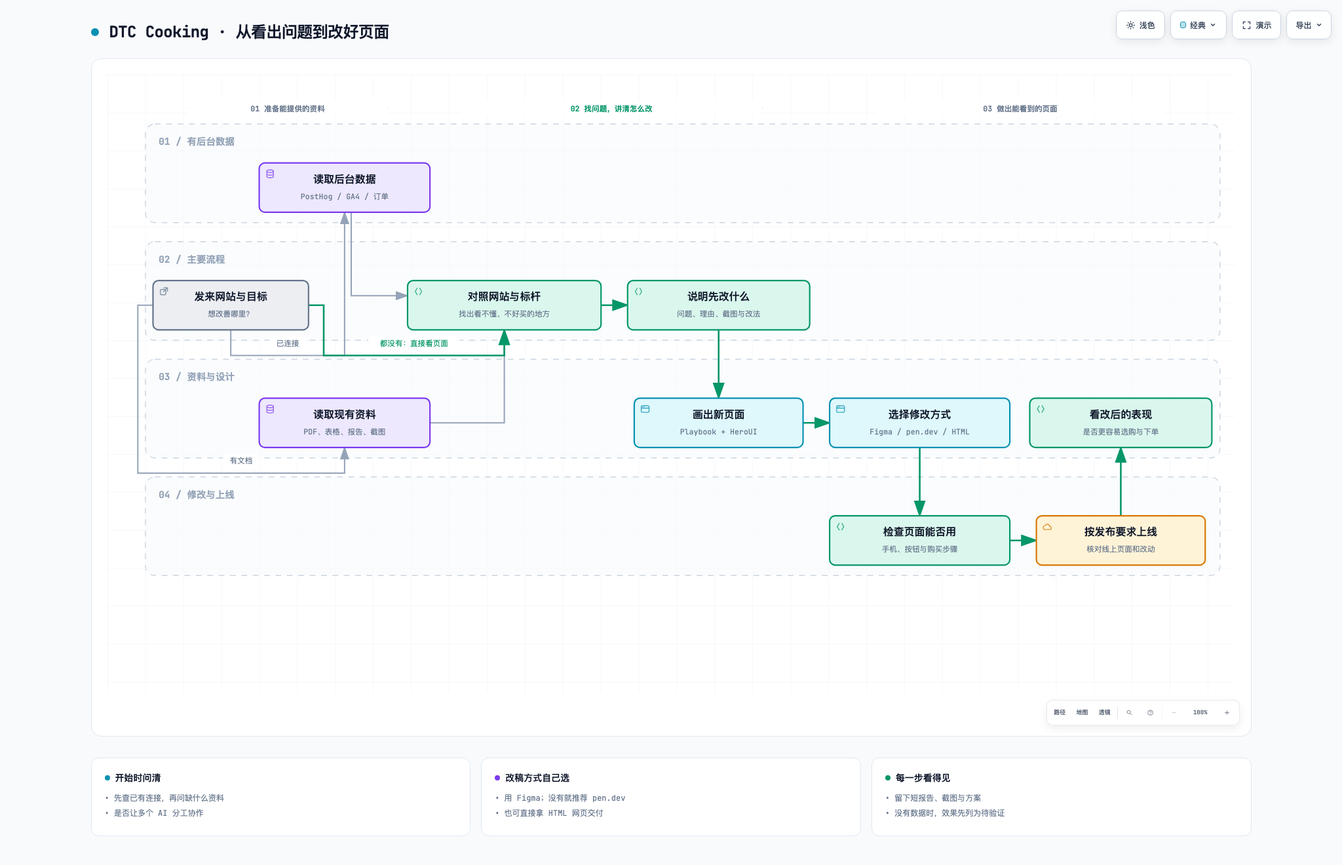
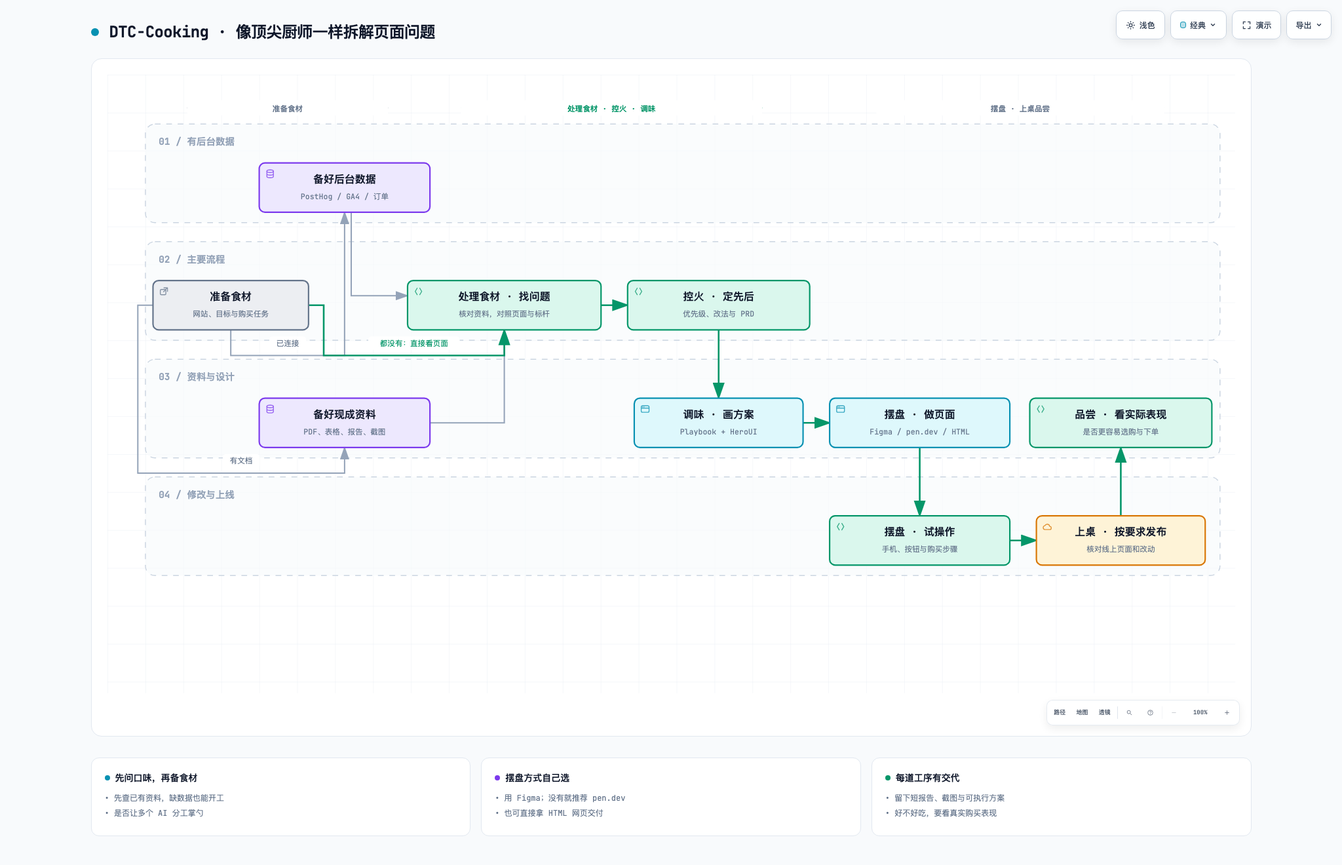
Rename skill to DTC-Cooking and explain the chef workflow

diff --git a/docs/workflow.html b/docs/workflow.html
@@ -4,7 +4,7 @@
   <meta charset="UTF-8">
   <meta name="viewport" content="width=device-width, initial-scale=1.0">
   <meta name="generator" content="archify 2.17.0-dev.1">
-  <title>DTC Cooking · 从看出问题到改好页面</title>
+  <title>DTC-Cooking · 像顶尖厨师一样拆解页面问题</title>
   <script>
     // Resolve the theme before first paint so light-preference users don't
     // see a dark flash. The toolbar script below re-applies with UI state.
@@ -4955,7 +4955,7 @@
            data-preset-badge-blueprint="蓝图 / 修订 01"
            data-preset-badge-editorial="编辑风格 / 现场笔记">
         <div class="pulse-dot"></div>
-        <h1>DTC Cooking · 从看出问题到改好页面</h1>
+        <h1>DTC-Cooking · 像顶尖厨师一样拆解页面问题</h1>
       </div>
     </div>
 
@@ -5005,7 +5005,7 @@
     <div class="diagram-container" data-detail-level="read"
          data-preset-badge-editorial-plate="ARCHIFY / 图版 04">
       <svg viewBox="0 0 1189 652" role="img" lang="zh-CN" aria-labelledby="archify-diagram-title archify-diagram-description" data-preset="classic" data-quality-profile="showcase">
-        <title id="archify-diagram-title">DTC Cooking · 从看出问题到改好页面</title>
+        <title id="archify-diagram-title">DTC-Cooking · 像顶尖厨师一样拆解页面问题</title>
         <desc id="archify-diagram-description">由 Archify 生成的工作流图。</desc>
         <!-- Definitions -->
         <defs>
@@ -5045,13 +5045,13 @@
         <!-- Phase headers -->
         <line x1="84" y1="35" x2="296" y2="35" class="a-default" stroke-width="1.1"/>
         <rect x="84" y="27" width="212" height="16" rx="4" class="c-mask"/>
-        <text x="190" y="39" class="t-muted" font-size="8" font-weight="600" text-anchor="middle">01 准备能提供的资料</text>
+        <text x="190" y="39" class="t-muted" font-size="8" font-weight="600" text-anchor="middle">准备食材</text>
         <line x1="372.4" y1="35" x2="690.4" y2="35" class="a-emphasis" stroke-width="1.1"/>
         <rect x="372.4" y="27" width="318" height="16" rx="4" class="c-mask"/>
-        <text x="531.4" y="39" class="t-backend" font-size="8" font-weight="600" text-anchor="middle">02 找问题，讲清怎么改</text>
+        <text x="531.4" y="39" class="t-backend" font-size="8" font-weight="600" text-anchor="middle">处理食材 · 控火 · 调味</text>
         <line x1="810.4000000000001" y1="35" x2="1114.4" y2="35" class="a-default" stroke-width="1.1"/>
         <rect x="810.4000000000001" y="27" width="304.0000000000001" height="16" rx="4" class="c-mask"/>
-        <text x="962.4000000000001" y="39" class="t-muted" font-size="8" font-weight="600" text-anchor="middle">03 做出能看到的页面</text>
+        <text x="962.4000000000001" y="39" class="t-muted" font-size="8" font-weight="600" text-anchor="middle">摆盘 · 上桌品尝</text>
 
         <!-- Workflow groups -->
 
@@ -5070,66 +5070,66 @@
         <path data-edge-from="verify" data-edge-to="publish" data-edge-key="10" data-edge-id="verify-to-publish" data-composition-points="951.4,491;979.4000000000001,491" d="M 951.4 491 L 979.4000000000001 491" class="a-emphasis" stroke-width="1.8" marker-end="url(#arrowhead-emphasis)"/>
 
         <!-- Nodes -->
-        <g id="node-analytics" data-node-id="analytics" data-node-label="读取后台数据" tabindex="0" role="button" aria-label="聚焦读取后台数据，PostHog / GA4 / 订单, 有后台数据 › 01 准备能提供的资料" aria-pressed="false" data-node-kind="database" data-node-sublabel="PostHog / GA4 / 订单" data-node-context="有后台数据 › 01 准备能提供的资料">
-          <title>读取后台数据 · PostHog / GA4 / 订单 · 有后台数据 › 01 准备能提供的资料</title>
+        <g id="node-analytics" data-node-id="analytics" data-node-label="备好后台数据" tabindex="0" role="button" aria-label="聚焦备好后台数据，PostHog / GA4 / 订单, 有后台数据 › 准备食材" aria-pressed="false" data-node-kind="database" data-node-sublabel="PostHog / GA4 / 订单" data-node-context="有后台数据 › 准备食材">
+          <title>备好后台数据 · PostHog / GA4 / 订单 · 有后台数据 › 准备食材</title>
           <rect x="160" y="93" width="180" height="52" rx="6" class="c-mask"/>
           <rect x="160" y="93" width="180" height="52" rx="6" class="c-database" stroke-width="1.5"/>
           <g aria-hidden="true" data-semantic-sigil="database" class="semantic-sigil s-database" transform="translate(166 99) scale(0.6875)">
             <ellipse cx="8" cy="4" rx="5" ry="2"/>
             <path d="M3 4v8c0 1.1 2.2 2 5 2s5-.9 5-2V4M3 8c0 1.1 2.2 2 5 2s5-.9 5-2"/>
           </g>
-          <text data-node-label="" data-detail-anchor="" x="250" y="114" class="t-primary" font-size="11" font-weight="600" text-anchor="middle">读取后台数据</text>
+          <text data-node-label="" data-detail-anchor="" x="250" y="114" class="t-primary" font-size="11" font-weight="600" text-anchor="middle">备好后台数据</text>
           <text data-detail="context" x="250" y="131" class="t-muted" font-size="8" text-anchor="middle">PostHog / GA4 / 订单</text>
         </g>
 
-        <g id="node-brief" data-node-id="brief" data-node-label="发来网站与目标" tabindex="0" role="button" aria-label="聚焦发来网站与目标，想改善哪里？, 主要流程 › 01 准备能提供的资料" aria-pressed="false" data-node-kind="external" data-node-sublabel="想改善哪里？" data-node-context="主要流程 › 01 准备能提供的资料">
-          <title>发来网站与目标 · 想改善哪里？ · 主要流程 › 01 准备能提供的资料</title>
+        <g id="node-brief" data-node-id="brief" data-node-label="准备食材" tabindex="0" role="button" aria-label="聚焦准备食材，网站、目标与购买任务, 主要流程 › 准备食材" aria-pressed="false" data-node-kind="external" data-node-sublabel="网站、目标与购买任务" data-node-context="主要流程 › 准备食材">
+          <title>准备食材 · 网站、目标与购买任务 · 主要流程 › 准备食材</title>
           <rect x="48" y="217" width="164" height="52" rx="6" class="c-mask"/>
           <rect x="48" y="217" width="164" height="52" rx="6" class="c-external" stroke-width="1.5"/>
           <g aria-hidden="true" data-semantic-sigil="external" class="semantic-sigil s-external" transform="translate(54 223) scale(0.6875)">
             <rect x="2.5" y="5" width="8.5" height="8" rx="1.5"/>
             <path d="M8 2.5h5.5V8M13.5 2.5 7.5 8.5"/>
           </g>
-          <text data-node-label="" data-detail-anchor="" x="130" y="238" class="t-primary" font-size="11" font-weight="600" text-anchor="middle">发来网站与目标</text>
-          <text data-detail="context" x="130" y="255" class="t-muted" font-size="8" text-anchor="middle">想改善哪里？</text>
+          <text data-node-label="" data-detail-anchor="" x="130" y="238" class="t-primary" font-size="11" font-weight="600" text-anchor="middle">准备食材</text>
+          <text data-detail="context" x="130" y="255" class="t-muted" font-size="8" text-anchor="middle">网站、目标与购买任务</text>
         </g>
 
-        <g id="node-compare" data-node-id="compare" data-node-label="对照网站与标杆" tabindex="0" role="button" aria-label="聚焦对照网站与标杆，找出看不懂、不好买的地方, 主要流程 › 02 找问题，讲清怎么改" aria-pressed="false" data-node-kind="backend" data-node-sublabel="找出看不懂、不好买的地方" data-node-context="主要流程 › 02 找问题，讲清怎么改">
-          <title>对照网站与标杆 · 找出看不懂、不好买的地方 · 主要流程 › 02 找问题，讲清怎么改</title>
+        <g id="node-compare" data-node-id="compare" data-node-label="处理食材 · 找问题" tabindex="0" role="button" aria-label="聚焦处理食材 · 找问题，核对资料，对照页面与标杆, 主要流程 › 处理食材 · 控火 · 调味" aria-pressed="false" data-node-kind="backend" data-node-sublabel="核对资料，对照页面与标杆" data-node-context="主要流程 › 处理食材 · 控火 · 调味">
+          <title>处理食材 · 找问题 · 核对资料，对照页面与标杆 · 主要流程 › 处理食材 · 控火 · 调味</title>
           <rect x="316.4" y="217" width="204" height="52" rx="6" class="c-mask"/>
           <rect x="316.4" y="217" width="204" height="52" rx="6" class="c-backend" stroke-width="1.5"/>
           <g aria-hidden="true" data-semantic-sigil="backend" class="semantic-sigil s-backend" transform="translate(322.4 223) scale(0.6875)">
             <path d="M6 3 3 8l3 5M10 3l3 5-3 5"/>
           </g>
-          <text data-node-label="" data-detail-anchor="" x="418.4" y="238" class="t-primary" font-size="11" font-weight="600" text-anchor="middle">对照网站与标杆</text>
-          <text data-detail="context" x="418.4" y="255" class="t-muted" font-size="8" text-anchor="middle">找出看不懂、不好买的地方</text>
+          <text data-node-label="" data-detail-anchor="" x="418.4" y="238" class="t-primary" font-size="11" font-weight="600" text-anchor="middle">处理食材 · 找问题</text>
+          <text data-detail="context" x="418.4" y="255" class="t-muted" font-size="8" text-anchor="middle">核对资料，对照页面与标杆</text>
         </g>
 
-        <g id="node-proposal" data-node-id="proposal" data-node-label="说明先改什么" tabindex="0" role="button" aria-label="聚焦说明先改什么，问题、理由、截图与改法, 主要流程 › 02 找问题，讲清怎么改" aria-pressed="false" data-node-kind="backend" data-node-sublabel="问题、理由、截图与改法" data-node-context="主要流程 › 02 找问题，讲清怎么改">
-          <title>说明先改什么 · 问题、理由、截图与改法 · 主要流程 › 02 找问题，讲清怎么改</title>
+        <g id="node-proposal" data-node-id="proposal" data-node-label="控火 · 定先后" tabindex="0" role="button" aria-label="聚焦控火 · 定先后，优先级、改法与 PRD, 主要流程 › 处理食材 · 控火 · 调味" aria-pressed="false" data-node-kind="backend" data-node-sublabel="优先级、改法与 PRD" data-node-context="主要流程 › 处理食材 · 控火 · 调味">
+          <title>控火 · 定先后 · 优先级、改法与 PRD · 主要流程 › 处理食材 · 控火 · 调味</title>
           <rect x="548.4" y="217" width="192" height="52" rx="6" class="c-mask"/>
           <rect x="548.4" y="217" width="192" height="52" rx="6" class="c-backend" stroke-width="1.5"/>
           <g aria-hidden="true" data-semantic-sigil="backend" class="semantic-sigil s-backend" transform="translate(554.4 223) scale(0.6875)">
             <path d="M6 3 3 8l3 5M10 3l3 5-3 5"/>
           </g>
-          <text data-node-label="" data-detail-anchor="" x="644.4" y="238" class="t-primary" font-size="11" font-weight="600" text-anchor="middle">说明先改什么</text>
-          <text data-detail="context" x="644.4" y="255" class="t-muted" font-size="8" text-anchor="middle">问题、理由、截图与改法</text>
+          <text data-node-label="" data-detail-anchor="" x="644.4" y="238" class="t-primary" font-size="11" font-weight="600" text-anchor="middle">控火 · 定先后</text>
+          <text data-detail="context" x="644.4" y="255" class="t-muted" font-size="8" text-anchor="middle">优先级、改法与 PRD</text>
         </g>
 
-        <g id="node-reports" data-node-id="reports" data-node-label="读取现有资料" tabindex="0" role="button" aria-label="聚焦读取现有资料，PDF、表格、报告、截图, 资料与设计 › 01 准备能提供的资料" aria-pressed="false" data-node-kind="database" data-node-sublabel="PDF、表格、报告、截图" data-node-context="资料与设计 › 01 准备能提供的资料">
-          <title>读取现有资料 · PDF、表格、报告、截图 · 资料与设计 › 01 准备能提供的资料</title>
+        <g id="node-reports" data-node-id="reports" data-node-label="备好现成资料" tabindex="0" role="button" aria-label="聚焦备好现成资料，PDF、表格、报告、截图, 资料与设计 › 准备食材" aria-pressed="false" data-node-kind="database" data-node-sublabel="PDF、表格、报告、截图" data-node-context="资料与设计 › 准备食材">
+          <title>备好现成资料 · PDF、表格、报告、截图 · 资料与设计 › 准备食材</title>
           <rect x="160" y="341" width="180" height="52" rx="6" class="c-mask"/>
           <rect x="160" y="341" width="180" height="52" rx="6" class="c-database" stroke-width="1.5"/>
           <g aria-hidden="true" data-semantic-sigil="database" class="semantic-sigil s-database" transform="translate(166 347) scale(0.6875)">
             <ellipse cx="8" cy="4" rx="5" ry="2"/>
             <path d="M3 4v8c0 1.1 2.2 2 5 2s5-.9 5-2V4M3 8c0 1.1 2.2 2 5 2s5-.9 5-2"/>
           </g>
-          <text data-node-label="" data-detail-anchor="" x="250" y="362" class="t-primary" font-size="11" font-weight="600" text-anchor="middle">读取现有资料</text>
+          <text data-node-label="" data-detail-anchor="" x="250" y="362" class="t-primary" font-size="11" font-weight="600" text-anchor="middle">备好现成资料</text>
           <text data-detail="context" x="250" y="379" class="t-muted" font-size="8" text-anchor="middle">PDF、表格、报告、截图</text>
         </g>
 
-        <g id="node-prototype" data-node-id="prototype" data-node-label="画出新页面" tabindex="0" role="button" aria-label="聚焦画出新页面，Playbook + HeroUI, 资料与设计 › 02 找问题，讲清怎么改" aria-pressed="false" data-node-kind="frontend" data-node-sublabel="Playbook + HeroUI" data-node-context="资料与设计 › 02 找问题，讲清怎么改">
-          <title>画出新页面 · Playbook + HeroUI · 资料与设计 › 02 找问题，讲清怎么改</title>
+        <g id="node-prototype" data-node-id="prototype" data-node-label="调味 · 画方案" tabindex="0" role="button" aria-label="聚焦调味 · 画方案，Playbook + HeroUI, 资料与设计 › 处理食材 · 控火 · 调味" aria-pressed="false" data-node-kind="frontend" data-node-sublabel="Playbook + HeroUI" data-node-context="资料与设计 › 处理食材 · 控火 · 调味">
+          <title>调味 · 画方案 · Playbook + HeroUI · 资料与设计 › 处理食材 · 控火 · 调味</title>
           <rect x="555.4" y="341" width="178" height="52" rx="6" class="c-mask"/>
           <rect x="555.4" y="341" width="178" height="52" rx="6" class="c-frontend" stroke-width="1.5"/>
           <g aria-hidden="true" data-semantic-sigil="frontend" class="semantic-sigil s-frontend" transform="translate(561.4 347) scale(0.6875)">
@@ -5138,12 +5138,12 @@
             <circle cx="4.1" cy="4.8" r=".7" class="sigil-fill"/>
             <circle cx="6.3" cy="4.8" r=".7" class="sigil-fill"/>
           </g>
-          <text data-node-label="" data-detail-anchor="" x="644.4" y="362" class="t-primary" font-size="11" font-weight="600" text-anchor="middle">画出新页面</text>
+          <text data-node-label="" data-detail-anchor="" x="644.4" y="362" class="t-primary" font-size="11" font-weight="600" text-anchor="middle">调味 · 画方案</text>
           <text data-detail="context" x="644.4" y="379" class="t-muted" font-size="8" text-anchor="middle">Playbook + HeroUI</text>
         </g>
 
-        <g id="node-edit-choice" data-node-id="edit-choice" data-node-label="选择修改方式" tabindex="0" role="button" aria-label="聚焦选择修改方式，Figma / pen.dev / HTML, 资料与设计 › 03 做出能看到的页面" aria-pressed="false" data-node-kind="frontend" data-node-sublabel="Figma / pen.dev / HTML" data-node-context="资料与设计 › 03 做出能看到的页面">
-          <title>选择修改方式 · Figma / pen.dev / HTML · 资料与设计 › 03 做出能看到的页面</title>
+        <g id="node-edit-choice" data-node-id="edit-choice" data-node-label="摆盘 · 做页面" tabindex="0" role="button" aria-label="聚焦摆盘 · 做页面，Figma / pen.dev / HTML, 资料与设计 › 摆盘 · 上桌品尝" aria-pressed="false" data-node-kind="frontend" data-node-sublabel="Figma / pen.dev / HTML" data-node-context="资料与设计 › 摆盘 · 上桌品尝">
+          <title>摆盘 · 做页面 · Figma / pen.dev / HTML · 资料与设计 › 摆盘 · 上桌品尝</title>
           <rect x="761.4" y="341" width="190" height="52" rx="6" class="c-mask"/>
           <rect x="761.4" y="341" width="190" height="52" rx="6" class="c-frontend" stroke-width="1.5"/>
           <g aria-hidden="true" data-semantic-sigil="frontend" class="semantic-sigil s-frontend" transform="translate(767.4 347) scale(0.6875)">
@@ -5152,40 +5152,40 @@
             <circle cx="4.1" cy="4.8" r=".7" class="sigil-fill"/>
             <circle cx="6.3" cy="4.8" r=".7" class="sigil-fill"/>
           </g>
-          <text data-node-label="" data-detail-anchor="" x="856.4" y="362" class="t-primary" font-size="11" font-weight="600" text-anchor="middle">选择修改方式</text>
+          <text data-node-label="" data-detail-anchor="" x="856.4" y="362" class="t-primary" font-size="11" font-weight="600" text-anchor="middle">摆盘 · 做页面</text>
           <text data-detail="context" x="856.4" y="379" class="t-muted" font-size="8" text-anchor="middle">Figma / pen.dev / HTML</text>
         </g>
 
-        <g id="node-observe" data-node-id="observe" data-node-label="看改后的表现" tabindex="0" role="button" aria-label="聚焦看改后的表现，是否更容易选购与下单, 资料与设计 › 03 做出能看到的页面" aria-pressed="false" data-node-kind="backend" data-node-sublabel="是否更容易选购与下单" data-node-context="资料与设计 › 03 做出能看到的页面">
-          <title>看改后的表现 · 是否更容易选购与下单 · 资料与设计 › 03 做出能看到的页面</title>
+        <g id="node-observe" data-node-id="observe" data-node-label="品尝 · 看实际表现" tabindex="0" role="button" aria-label="聚焦品尝 · 看实际表现，是否更容易选购与下单, 资料与设计 › 摆盘 · 上桌品尝" aria-pressed="false" data-node-kind="backend" data-node-sublabel="是否更容易选购与下单" data-node-context="资料与设计 › 摆盘 · 上桌品尝">
+          <title>品尝 · 看实际表现 · 是否更容易选购与下单 · 资料与设计 › 摆盘 · 上桌品尝</title>
           <rect x="972.4000000000001" y="341" width="192" height="52" rx="6" class="c-mask"/>
           <rect x="972.4000000000001" y="341" width="192" height="52" rx="6" class="c-backend" stroke-width="1.5"/>
           <g aria-hidden="true" data-semantic-sigil="backend" class="semantic-sigil s-backend" transform="translate(978.4000000000001 347) scale(0.6875)">
             <path d="M6 3 3 8l3 5M10 3l3 5-3 5"/>
           </g>
-          <text data-node-label="" data-detail-anchor="" x="1068.4" y="362" class="t-primary" font-size="11" font-weight="600" text-anchor="middle">看改后的表现</text>
+          <text data-node-label="" data-detail-anchor="" x="1068.4" y="362" class="t-primary" font-size="11" font-weight="600" text-anchor="middle">品尝 · 看实际表现</text>
           <text data-detail="context" x="1068.4" y="379" class="t-muted" font-size="8" text-anchor="middle">是否更容易选购与下单</text>
         </g>
 
-        <g id="node-verify" data-node-id="verify" data-node-label="检查页面能否用" tabindex="0" role="button" aria-label="聚焦检查页面能否用，手机、按钮与购买步骤, 修改与上线 › 03 做出能看到的页面" aria-pressed="false" data-node-kind="backend" data-node-sublabel="手机、按钮与购买步骤" data-node-context="修改与上线 › 03 做出能看到的页面">
-          <title>检查页面能否用 · 手机、按钮与购买步骤 · 修改与上线 › 03 做出能看到的页面</title>
+        <g id="node-verify" data-node-id="verify" data-node-label="摆盘 · 试操作" tabindex="0" role="button" aria-label="聚焦摆盘 · 试操作，手机、按钮与购买步骤, 修改与上线 › 摆盘 · 上桌品尝" aria-pressed="false" data-node-kind="backend" data-node-sublabel="手机、按钮与购买步骤" data-node-context="修改与上线 › 摆盘 · 上桌品尝">
+          <title>摆盘 · 试操作 · 手机、按钮与购买步骤 · 修改与上线 › 摆盘 · 上桌品尝</title>
           <rect x="761.4" y="465" width="190" height="52" rx="6" class="c-mask"/>
           <rect x="761.4" y="465" width="190" height="52" rx="6" class="c-backend" stroke-width="1.5"/>
           <g aria-hidden="true" data-semantic-sigil="backend" class="semantic-sigil s-backend" transform="translate(767.4 471) scale(0.6875)">
             <path d="M6 3 3 8l3 5M10 3l3 5-3 5"/>
           </g>
-          <text data-node-label="" data-detail-anchor="" x="856.4" y="486" class="t-primary" font-size="11" font-weight="600" text-anchor="middle">检查页面能否用</text>
+          <text data-node-label="" data-detail-anchor="" x="856.4" y="486" class="t-primary" font-size="11" font-weight="600" text-anchor="middle">摆盘 · 试操作</text>
           <text data-detail="context" x="856.4" y="503" class="t-muted" font-size="8" text-anchor="middle">手机、按钮与购买步骤</text>
         </g>
 
-        <g id="node-publish" data-node-id="publish" data-node-label="按发布要求上线" tabindex="0" role="button" aria-label="聚焦按发布要求上线，核对线上页面和改动, 修改与上线 › 03 做出能看到的页面" aria-pressed="false" data-node-kind="cloud" data-node-sublabel="核对线上页面和改动" data-node-context="修改与上线 › 03 做出能看到的页面">
-          <title>按发布要求上线 · 核对线上页面和改动 · 修改与上线 › 03 做出能看到的页面</title>
+        <g id="node-publish" data-node-id="publish" data-node-label="上桌 · 按要求发布" tabindex="0" role="button" aria-label="聚焦上桌 · 按要求发布，核对线上页面和改动, 修改与上线 › 摆盘 · 上桌品尝" aria-pressed="false" data-node-kind="cloud" data-node-sublabel="核对线上页面和改动" data-node-context="修改与上线 › 摆盘 · 上桌品尝">
+          <title>上桌 · 按要求发布 · 核对线上页面和改动 · 修改与上线 › 摆盘 · 上桌品尝</title>
           <rect x="979.4000000000001" y="465" width="178" height="52" rx="6" class="c-mask"/>
           <rect x="979.4000000000001" y="465" width="178" height="52" rx="6" class="c-cloud" stroke-width="1.5"/>
           <g aria-hidden="true" data-semantic-sigil="cloud" class="semantic-sigil s-cloud" transform="translate(985.4000000000001 471) scale(0.6875)">
             <path d="M4.3 12.5h7.3a2.4 2.4 0 0 0 .2-4.8 4 4 0 0 0-7.5-1.3A3.1 3.1 0 0 0 4.3 12.5Z"/>
           </g>
-          <text data-node-label="" data-detail-anchor="" x="1068.4" y="486" class="t-primary" font-size="11" font-weight="600" text-anchor="middle">按发布要求上线</text>
+          <text data-node-label="" data-detail-anchor="" x="1068.4" y="486" class="t-primary" font-size="11" font-weight="600" text-anchor="middle">上桌 · 按要求发布</text>
           <text data-detail="context" x="1068.4" y="503" class="t-muted" font-size="8" text-anchor="middle">核对线上页面和改动</text>
         </g>
 
@@ -5402,18 +5402,18 @@
       <div class="card">
         <div class="card-header">
           <div class="card-dot cyan"></div>
-          <h3>开始时问清</h3>
+          <h3>先问口味，再备食材</h3>
         </div>
         <ul>
-          <li>&bull; 先查已有连接，再问缺什么资料</li>
-          <li>&bull; 是否让多个 AI 分工协作</li>
+          <li>&bull; 先查已有资料，缺数据也能开工</li>
+          <li>&bull; 是否让多个 AI 分工掌勺</li>
         </ul>
       </div>
 
       <div class="card">
         <div class="card-header">
           <div class="card-dot violet"></div>
-          <h3>改稿方式自己选</h3>
+          <h3>摆盘方式自己选</h3>
         </div>
         <ul>
           <li>&bull; 用 Figma；没有就推荐 pen.dev</li>
@@ -5424,11 +5424,11 @@
       <div class="card">
         <div class="card-header">
           <div class="card-dot emerald"></div>
-          <h3>每一步看得见</h3>
+          <h3>每道工序有交代</h3>
         </div>
         <ul>
-          <li>&bull; 留下短报告、截图与方案</li>
-          <li>&bull; 没有数据时，效果先列为待验证</li>
+          <li>&bull; 留下短报告、截图与可执行方案</li>
+          <li>&bull; 好不好吃，要看真实购买表现</li>
         </ul>
       </div>
     </div>

diff --git a/docs/workflow.md b/docs/workflow.md
@@ -1,20 +1,20 @@
-# DTC Cooking：一句话检查页面，做出能落地的改进方案
+# DTC-Cooking：像顶尖厨师一样，拆解独立站的问题
 
-> 版本 0.3.0｜这份说明解释 Skill 如何开展工作，不是某个站点已经改版、上线或提升转化的记录。
+> 版本 0.3.1｜这份说明解释 Skill 如何开展工作，不是某个站点已经改版、上线或提升转化的记录。
 
 ![流程图](assets/workflow.png)
 
 [交互流程图](workflow.html)（下载后用浏览器打开）
 
-核心目标很简单：帮助 DTC 独立站看清自己的页面哪里让顾客看不懂、选不定、买不顺，再给出有依据、能实施的改进方案。页面好看只是其中一部分，更要让顾客更容易理解商品、放心购买。
+顶尖厨师会把一道菜拆成食材、处理方法、火候和味道，DTC-Cooking 则把独立站的问题拆成资料、页面体验、改进顺序和具体做法。我们借六道烹饪工序讲清整个流程，帮助顾客看懂商品、做出选择、顺利下单。每一步都要说明依据并留下能查看的成果。
 
-## 1. 用户先说一句话
+用户可以这样开始：“使用 $DTC-Cooking 检查这个商品页的手机端体验，给出修改方案，做好页面并上线。”只想找问题，就交付问题与方案；想改页面，就继续制作和验证；明确要求上线且条件具备，就推进到线上检查。小修只处理相关工序，不必从头跑完整流程。
 
-例如：“帮我检查这个商品页的手机端体验，给出修改方案，做好页面并上线。”系统先确认站点和本次范围。只想找问题，就交付问题与方案；想改页面，就继续制作和验证；明确要求上线且条件具备，就推进到线上检查。已经给过的信息不重复问。
+## 1. 准备食材：手上有什么，就从什么开始
 
-启动时还会询问是否开启多智能体协作。开启后，可以让不同助手分别看资料、查标杆、写方案、做页面和验收，由主助手汇总；关闭也按同样标准完成。能独立做的事情并行，依赖上一步结论的事情按顺序做。
+先摆清“食材”：你的网站、想帮助顾客完成的事情、现有资料，以及这次需要方案、预览还是上线。已经给过的信息不重复问。
 
-## 2. 有哪种资料，就走哪条路
+完整流程启动时还会询问是否开启多智能体协作。开启后，可以让不同助手分别看资料、查标杆、写方案、做页面和验收，由主助手汇总；关闭也按同样标准完成。能独立做的事情并行，依赖上一步结论的事情按顺序做。
 
 **第一条：已经连接后台。** 先检查 PostHog、GA4 或商城后台是否连接到正确站点，再读取与本次页面有关的信息，了解顾客在哪里犹豫或停止操作。只装了工具，不代表已经能读到这个站点的数据。
 
@@ -22,36 +22,48 @@
 
 **第三条：什么资料都没有。** 直接检查用户的真实独立站，再选择相关跨品类标杆做对照。说明“你的页面现在怎样、标杆怎样处理、建议怎么改、为什么值得试”。这种路线可以提出明确方案，但不能把猜测写成真实流失原因，也不能编造提升比例。
 
-## 3. 找出最值得先改的问题
+这一步留下任务与资料说明，让你知道本次要解决什么、有哪些依据、哪些资料还没有。
 
-实际打开页面，检查手机和电脑上的阅读、选商品、查看保障、加入购物车等过程。每个问题附上真实截图，用一句话说明它可能怎样影响购买，并排出先后顺序。
+## 2. 处理食材：分清可靠资料，找出真实问题
+
+厨师会先处理食材，避免把不合适的部分混进菜里。这里先辨别资料的来源、日期和缺口，再实际打开页面，检查手机和电脑上的阅读、选商品、查看保障、加入购物车等过程。每个问题附上真实截图，说明看到了什么、可能怎样影响购买；推测和已确认的事实分开写。
 
 标杆从可配置的公开清单按问题选择，例如参考 DJI 的商品比较、Anker 的场景选购、Casper 的购买保障。只选与本次问题有关的案例，不机械检查全部品牌。必须打开具体页面并保存真实截图，解释借鉴什么、哪里不适合照搬。
 
-## 4. 把方案写成能看懂的说明书
+这一步留下问题清单、资料依据和页面对照截图，让你能看见判断从哪里来。
 
-产品 PRD 可以直接叫“页面改进说明书”。它要讲清本次改哪里、发现什么问题、证据是什么、准备怎么改、如何判断做对了。
+## 3. 控火：决定先改什么，这次做到哪里
+
+火候不是越大越好，改动也不是越多越好。先处理挡住下单、让人误解商品或难以选择的问题，再结合证据和制作成本安排顺序。把本次范围控制清楚，避免为了换个外观重做整站。
+
+这一步交付产品 PRD，也可以直接叫“页面改进说明书”：本次改哪里、发现什么问题、证据是什么、准备怎么改、如何判断做对了。
 
 有数据就放相关资料和必要截图；没有数据就明确写“根据页面与标杆对照提出”。同时放入用户页面与标杆的真实截图，逐项解释建议。价格、优惠、保障和商品能力以用户确认的信息为准。
 
-## 5. 先把页面做出来，再选择怎样修改
+## 4. 调味：让信息、视觉和交互配合起来
 
-按 Vibe Designing Playbook 的方法，先安排信息顺序、主要按钮、手机和电脑的布局，以及加载或出错时的提示；再使用 HeroUI 的组件来制作可操作的页面。沿用现有品牌规范，不为了换外观重做整站。
+调味要衬托食材，页面设计也要帮助顾客理解商品。按 Vibe Designing Playbook 的方法，安排信息顺序、主要按钮、手机和电脑的布局，以及加载或出错时的提示；再结合 HeroUI 的组件思路细化设计。沿用现有品牌和业务规则，说明每处调整如何帮助阅读、选择或操作。
+
+这一步留下页面设计与组件说明，让改法具体到文字、区块、按钮和状态。
+
+## 5. 摆盘：做成能用的网页，也方便继续修改
+
+摆盘要让人知道从哪里开始吃，网页也要让人看得懂、点得动。把设计做成可运行页面，实际点击和操作，检查手机和电脑上的商品信息、按钮、购物车及相关购买流程。需要记录顾客操作时，确认记录能被后台收到。
 
 网页预览完成后，让用户选择交付方式：有 Figma，可以导入可编辑设计稿；使用 Codex 时先检查 Figma 插件，缺少时提示安装并验证连接，再按用户选择导入。没有 Figma 但想自己调整，推荐 [pen.dev 客户端](https://www.pen.dev/)；也可以直接交付 HTML + Tailwind CSS。
 
 pen.dev 支持导入网页、手动修改和导出页面代码，适合调整文字、图片与排版，但不能把导出页面当成已经接好全部购买功能。用户修改后，要重新检查手机、电脑上的展示和关键操作。
 
-## 6. 检查完成，再按要求交付或上线
+这一步交付网页预览、代码或可编辑稿，以及实际检查结果和前后对比。只看到“构建成功”或预览正常，不能说明线上页面已经可用。
 
-实际点击和操作页面，检查商品信息、按钮、购物车及相关购买流程。需要记录顾客操作时，确认记录能被后台收到。只看到“构建成功”或预览正常，不能说明线上页面已经可用。
+## 6. 上桌品尝：按要求上线，用实际表现判断效果
 
-发布前核对正确站点与发布目标，发布后重新检查线上页面，并留下恢复旧版本的方法。缺少必要授权或账号访问时，说清还差什么；能独立完成的准备继续做。
+做好页面后，按已有授权发布：先核对正确站点与发布目标，发布后重新检查线上页面，并留下恢复旧版本的方法。缺少必要授权或账号访问时，说清还差什么；能独立完成的准备继续做，不重复询问已经明确授权的同一操作。
 
-## 7. 每个大阶段都留下可审核的结果
+上桌不代表人人都喜欢，页面上线也不代表已经提高转化。后续用可比较的数据或资料观察顾客是否更容易完成关键操作，再判断改动有没有帮助；尚无数据时明确说明效果待验证。这一步留下线上检查、恢复说明，以及实际有依据的效果判断。
 
-启动、资料整理、界面与标杆研究、方案、页面设计、开发验收和上线检查，各自留下简短报告。报告先回答“做了什么、发现什么、建议什么、还有什么没确认”，配上必要截图和结果链接。不把没执行的步骤写成完成。
+## 每道实际执行的工序，都留下能查看的结果
 
-最终交付包括改进说明书、前后对比、可查看或修改的页面，以及实际完成的检查结果。上线后观察顾客是否更容易完成关键操作；“已经上线”和“确实提升转化”分开说明，有后续证据再判断效果。
+准备食材有任务说明，处理食材有研究和截图，控火有改进说明书，调味有设计说明，摆盘有网页和检查结果，上桌品尝有线上核验。报告可以合并成几个清楚的章节，先回答“做了什么、发现什么、建议什么、还有什么没确认”，配上必要截图和结果链接。不为未执行的步骤生成空报告，也不把报告变成额外审批。
 
-参考：[Vibe Designing Playbook](https://alibaba-cloud-design.github.io/vibe-designing-playbook/)、[HeroUI](https://www.heroui.com/)、[公开标杆研究起点](../independent-site-audit/references/benchmarks.md)。
+参考：[Vibe Designing Playbook](https://alibaba-cloud-design.github.io/vibe-designing-playbook/)、[HeroUI](https://www.heroui.com/)、[公开标杆研究起点](../DTC-Cooking/references/benchmarks.md)。

diff --git a/DTC-Cooking/SKILL.md b/DTC-Cooking/SKILL.md
@@ -1,13 +1,13 @@
 ---
-name: independent-site-audit
-description: 审核 DTC 独立站的界面、选购与下单体验，结合已连接数据、用户报表或真实页面与标杆对照，给出有证据的改进方案；按用户要求继续制作原型、实现并验证上线。适用于独立站检测、首页或商品页诊断、转化体验优化、改版和上线验收。
+name: DTC-Cooking
+description: 像顶尖厨师拆解烹饪技术一样拆解 DTC 独立站问题，以准备食材、处理食材、控火、调味、摆盘、上桌品尝说明从资料与界面审核到方案、制作和上线验证的过程。结合已连接数据、用户报表或真实页面与标杆对照，给出有证据的改法，按用户要求推进。适用于独立站检测、首页或商品页诊断、转化体验优化、改版和上线验收。
 metadata:
-  version: "0.3.0"
+  version: "0.3.1"
 ---
 
-# DTC Cooking · 独立站界面优化
+# DTC-Cooking · 独立站界面优化
 
-帮助用户找出页面哪里让顾客看不懂、选不定、买不顺，并交付有依据、能实施的改法。默认用中文白话解释“哪里有问题、为什么值得改、怎么改、如何检查”；技术细节放在需要它的开发说明中。
+像顶尖厨师讲清一道菜的做法一样，帮助用户看清页面哪里让顾客看不懂、选不定、买不顺，再把问题拆成有依据、能实施的改法。用“准备食材 → 处理食材 → 控火 → 调味 → 摆盘 → 上桌品尝”解释工作过程，每个比喻都紧接实际动作和交付。默认用中文白话说明“哪里有问题、为什么值得改、怎么改、如何检查”；技术细节放在需要它的开发说明中。
 
 ## 先确定本次终点
 
@@ -21,7 +21,7 @@ metadata:
 
 只问会改变结果且无法从上下文确认的信息。已有明确上线授权不在阶段切换时反复询问；缺少目标站点、必要业务决定或具体外部操作授权时，只暂停依赖它的部分，继续独立工作。
 
-## 启动与资料路线
+## 准备食材：先看网站、目标与可用资料
 
 完整页面优化使用以下启动流程。仅截图评议或已明确的局部缺陷修复，可直接处理当前材料与问题；仅在会改变判断时补问数据，不强制开展无关标杆研究。
 
@@ -44,16 +44,16 @@ metadata:
 
 开启后为实际执行的大节点安排职责清楚的阶段助手；相互独立的资料和页面研究可并行，有上下游依赖的步骤顺序交接。主助手统一问题编号、证据和版本，核验最终结果。工具不支持委派时说明并继续单助手流程；不为凑角色拆分简单修改。
 
-## 执行主线
+## 六道工序与执行主线
 
-1. **看真实页面与资料。** 围绕目标任务检查桌面和手机的入口、选购、商品信息、保障说明、购物车与相关结账状态。保存可复现的问题和真实截图。范围小则只检查受影响页面，不机械扩大为整站审计。
-2. **找适合借鉴的标杆。** 从用户指定案例或 [公开标杆池](references/benchmarks.md) 选与问题有关的少量页面。记录实际截图与具体机制，不用品牌名或生成图充当证据。
-3. **写页面改进说明书（PRD）。** 把用户页面、相关数据或文件、标杆截图、推荐改法、取舍和验收动作关联起来。按用户受到的影响、证据和实施成本排序；没有数据也要给具体方案。
-4. **需要改页面时继续制作。** 采用 Vibe Designing Playbook 的规格方法和 HeroUI v3 组件思路，沿用现有站点的业务与技术约束。按需读取 [设计与交付](references/design-and-delivery.md)，运行并检查网页。
-5. **选择编辑方式。** 预览完成后，对尚未确定的偏好询问 Figma、pen.dev 或直接 HTML + Tailwind CSS。选择 Figma 路线时，Codex 先检查 Figma 工具，缺失时提示安装相应插件；没有 Figma 但想手动修改时推荐 pen.dev 客户端。可编辑稿是可选分支，不阻断已授权的代码交付。
-6. **验证并完成请求。** 对实际改动做相称的浏览器和功能检查。要求上线的任务核对发布目标，按已有授权发布，再检查真实生产页面；预览或构建成功不能单独证明上线完成。
+1. **准备食材——确认这次要做什么。** 沿用上述启动与资料路线，明确站点、购买目标、本次终点和已有资料，产出任务与资料说明。没有后台就读现成文件；都没有就从真实页面与标杆开始。
+2. **处理食材——把可靠资料和真实问题分清。** 核对资料来源与缺口，围绕目标任务检查桌面和手机的入口、选购、商品信息、保障说明、购物车与相关结账状态。从用户指定案例或 [公开标杆池](references/benchmarks.md) 选少量相关页面，保存可复现问题、真实截图及可借鉴做法，不用品牌名或生成图充当证据。范围小则只检查受影响页面，不机械扩大为整站审计。
+3. **控火——决定先改什么、改到哪里。** 按顾客受到的影响、证据和实施成本排序，把用户页面、相关数据或文件、标杆截图、推荐改法、取舍和验收动作写成页面改进说明书（PRD）。没有数据也给具体方案，但不编造转化原因或提升幅度。
+4. **调味——让信息、视觉和交互帮助选购。** 需要改页面时，采用 Vibe Designing Playbook 的规格方法和 HeroUI v3 组件思路，细化信息顺序、主要动作、双端布局与关键状态，产出页面设计和组件说明。沿用现有站点的品牌、业务与技术约束，按需读取 [设计与交付](references/design-and-delivery.md)。
+5. **摆盘——做成能操作、能检查的网页。** 实现并运行页面，对实际改动做相称的手机、桌面浏览器和功能检查。预览完成后，对尚未确定的偏好询问 Figma、pen.dev 或直接 HTML + Tailwind CSS。选择 Figma 时，Codex 先检查 Figma 工具，缺失则提示安装相应插件；没有 Figma 但想手动修改时推荐 pen.dev 客户端。交付预览、代码或可编辑稿及检查结果；可编辑稿不阻断已授权的代码交付，修改或导出后复查受影响内容。
+6. **上桌品尝——按要求上线，再看实际表现。** 要求上线时核对发布目标，按已有授权发布，再检查真实生产页面，记录线上结果和恢复方式。预览或构建成功不能单独证明上线完成；后续有可比较的数据，才判断顾客是否更容易选购和下单。
 
-每个实际大节点留一份简短报告或清晰的报告章节：做了什么、发现什么、建议什么、证据在哪里、还有什么没确认。不为未执行的节点生成空报告，不把报告自动变成审批点。
+六道工序用于讲清完整方法，不要求每个任务全跑。检测与方案到用户所需的说明书为止，局部小修直接处理相关工序。每个实际大节点留一份简短报告或清晰的报告章节：做了什么、发现什么、建议什么、证据在哪里、还有什么没确认。不为未执行的节点生成空报告，不把报告自动变成审批点。
 
 ## 证据和完成标准
 

diff --git a/CHANGELOG.md b/CHANGELOG.md
@@ -1,6 +1,13 @@
 # 版本记录
 
-从 `0.0.0` 开始编号，本次发布为 `0.3.0`。`0.0.0` 至 `0.2.0` 是对原有三次提交补登记的历史版本，当时没有 GitHub Release；不是补造的发布记录。
+从 `0.0.0` 开始编号，当前版本为 `0.3.1`。`0.0.0` 至 `0.2.0` 是对原有三次提交补登记的历史版本，当时没有 GitHub Release；不是补造的发布记录。
+
+## 0.3.1 — 2026-09-22
+
+- Skill 目录、名称、展示名称和调用入口统一改为 `DTC-Cooking`，示例调用为 `$DTC-Cooking`。
+- 用顶尖厨师的六道工序解释优化方法：准备食材、处理食材、控火、调味、摆盘、上桌品尝；每道工序都对应实际任务和交付物。
+- 同步 README、工作流程说明、执行参考与交互图，保留原数据路线、验证和发布边界。
+- 更新安装包与下载链接，保留 0.3.0 历史发布。
 
 ## 0.3.0 — 2026-09-22
 
